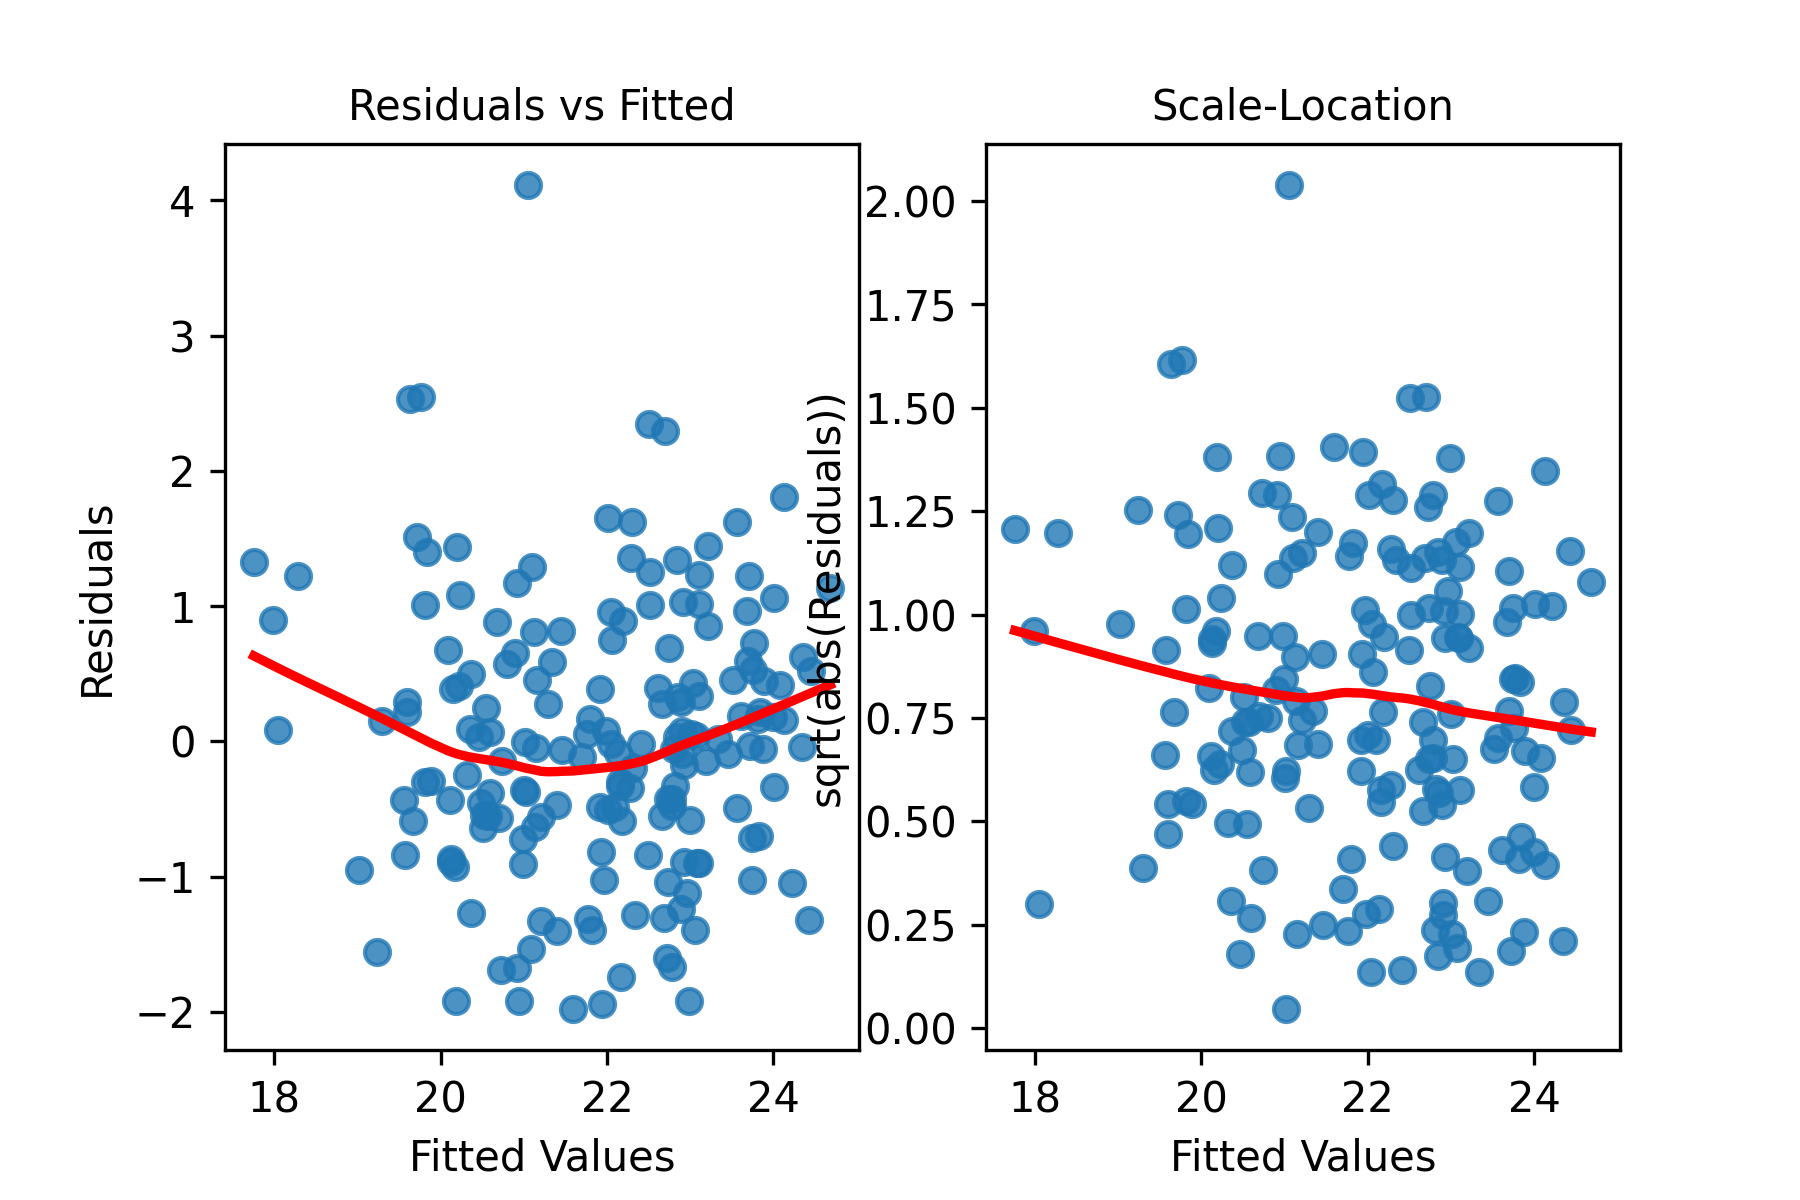
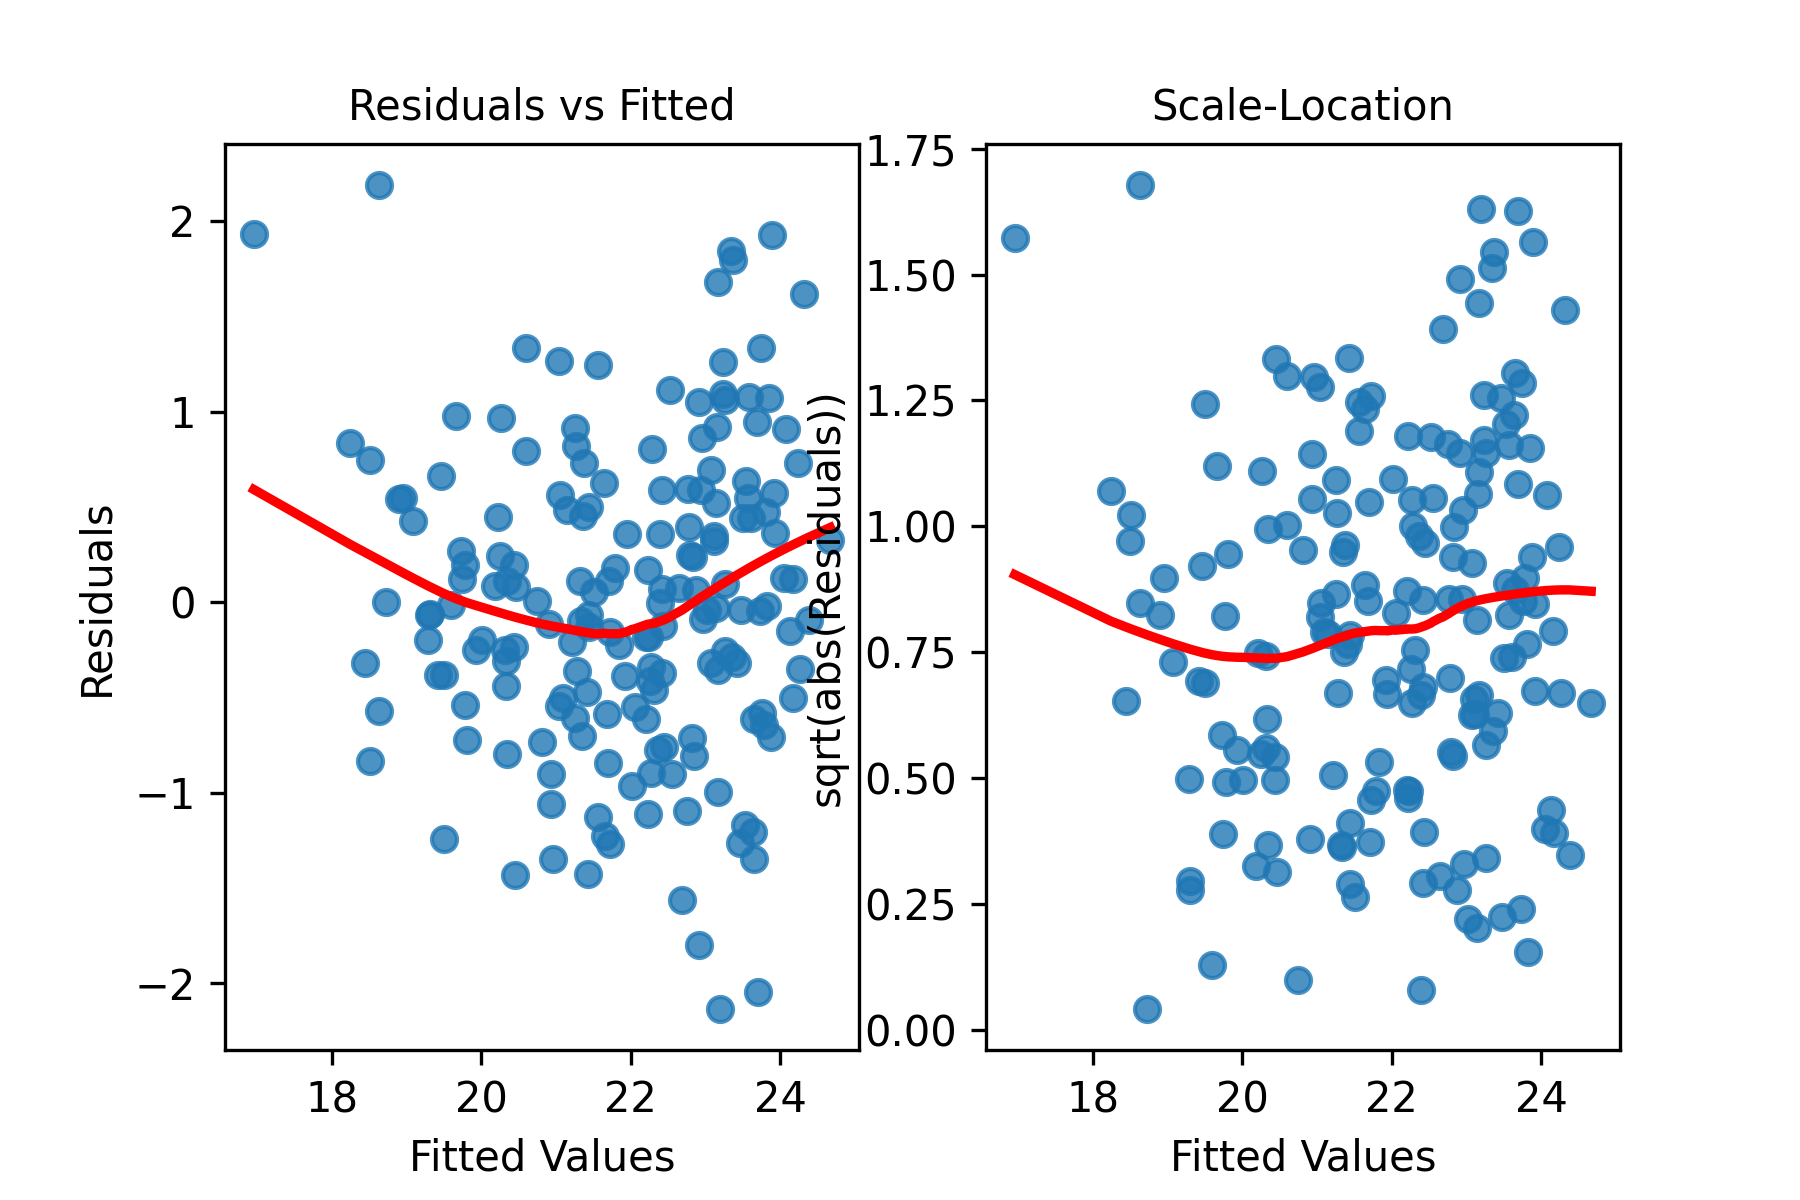
final model+stats

diff --git a/DASC512/final.py b/DASC512/final.py
@@ -14,7 +14,6 @@ from sklearn.feature_selection import VarianceThreshold
 from sklearn.preprocessing import StandardScaler
 from sklearn.ensemble import  RandomForestRegressor
 from sklearn.pipeline import Pipeline
-from sklearn.metrics import roc_auc_score,balanced_accuracy_score
 from scipy.special import inv_boxcox
 from sklearn.preprocessing import PowerTransformer
 from statsmodels.stats.outliers_influence import variance_inflation_factor
@@ -24,7 +23,8 @@ from pandas.core.common import SettingWithCopyWarning
 import warnings
 
 warnings.simplefilter(action="ignore", category=SettingWithCopyWarning)
-
+warnings.filterwarnings("ignore")
+    
 def get_model_stats(x, y):
     # x = trng_data[x_columns]
     results = sm.OLS(y, x).fit()
@@ -163,47 +163,6 @@ trng_data = pd.DataFrame(data.loc[:456, ~data.columns.isin(['Census Tract'])])
 # print(trng_data)
 # subset_data.info()
 
-# separate the independent and target variable 
-X = trng_data.drop(columns=['Y'])
-y = trng_data['Y']
-X=sm.add_constant(X)
-
-# # create the training data
-# x_columns = ['X1','X2','X3','X4','X5','X6','X7','X8','X9','X10','X11','X12','X1_X5','X4_X5','X5_X6','X5_X8']
-# x = trng_data[x_columns]
-# y_column = ['Y']
-# y = trng_data[y_column]
-
-# # remove features w/ variance < 30% => features which mostly remain at the same level 
-# # across different observations, should not ideally be responsible for differing responses in the observations.   
-# var = VarianceThreshold(threshold=0.3)
-# var = var.fit(x,y)
-# cols = var.get_support(indices=True)
-# features = x.columns[cols]
-# # print(features)
-# train_X = trng_data[features] 
-# # print(train_X)
-
-# # re-assign our df w/ only the features w/ variance > 30% + our target variable
-# trng_data = train_X.assign(Y=train_Y) 
-# print(trng_data)
-
-# # Remove features which are not correlated with the response variable 
-# # plt.figure(figsize=(12,12))
-# cor = trng_data.corr()
-# # sns.heatmap(cor, annot=True, cmap=plt.cm.Reds)
-# # plt.show()
-
-# # Consider correlations only with the target variable
-# cor_target = abs(cor['Y'])
-
-# #Select correlations with a correlation above a threshold 10%.
-# features = cor_target[cor_target>0.1]
-# # print(features.index)
-# # => Index(['X1', 'X2', 'X3', 'X5', 'X6', 'X7', 'X9', 'X10', 'X11', 'X12', 'X1_X5','X4_X5', 'X5_X8']
-
-# x_columns = ['X1', 'X2', 'X3', 'X5', 'X6', 'X7', 'X9', 'X10', 'X11', 'X12', 'X1_X5','X4_X5', 'X5_X8']
-
 # Drop outliers
 Q1 = trng_data.quantile(0.25)
 Q3 = trng_data.quantile(0.75)
@@ -212,6 +171,18 @@ index = trng_data[~((trng_data < (Q1 - 1.5 * IQR)) | (trng_data > (Q3 + 1.5 * IQ
 trng_data.drop(index, inplace=True)
 # trng_data.describe()
 # trng_data.info()
+
+# separate the independent and target variable 
+X = trng_data.drop(columns=['Y'])
+y = trng_data['Y']
+X=sm.add_constant(X)
+print(X.columns)
+
+# create the training data
+x_columns = ['const', 'X1','X2','X3','X4','X5','X6','X7','X8','X9','X10','X11','X12','X1_X5','X4_X5','X5_X6','X5_X8']
+# x = trng_data[x_columns]
+y_column = ['Y']
+# y = trng_data[y_column]
 
 ###  Build Every Possible Model
 from itertools import chain, combinations
@@ -242,14 +213,11 @@ mylist = [list(row) for row in mylist]
 # print(mylist[105703]) => ['X1', 'X4', 'X5', 'X6', 'X8', 'X9', 'X10', 'X11', 'X12', 'X5_X6']
 # print(mylist[125995]) => ['const', 'X4', 'X5', 'X6', 'X8', 'X9', 'X10', 'X11', 'X12', 'X1_X5', 'X4_X5', 'X5_X6']
 
-from sklearn.feature_selection import SelectKBest
-from sklearn.feature_selection import f_regression
-
 ###  Recursive Feature Elimination
 from sklearn.feature_selection import RFE
 from sklearn.ensemble import AdaBoostRegressor
-estimator = AdaBoostRegressor(random_state=0, n_estimators=100)
-selector = RFE(estimator, n_features_to_select=8, step=1)
+estimator = AdaBoostRegressor(random_state=42, n_estimators=100)
+selector = RFE(estimator, n_features_to_select=5, step=1)
 selector = selector.fit(X, y)
 filter = selector.support_
 print("Num Features: %d" % selector.n_features_)
@@ -262,32 +230,54 @@ print(features)
 print("Selected features:")
 print(features[filter]) 
 # => 'X6', 'X8', 'X10', 'X11', 'X12', 'X1_X5', 'X5_X6', 'X5_X8'
-x_columns = ['X5', 'X6', 'X11', 'X1_X5', 'X5_X8']
+# x_columns = ['X5', 'X6', 'X11', 'X1_X5', 'X5_X8']
 
-# VIF dataframe
-vif_data = compute_vif(x_columns)
-print(vif_data)
 
 # step-wise regression by P>|t|
-# x_columns.remove('X4') #0.9583
-# x_columns.remove('X5_X6') #0.6188
-# x_columns.remove('X6') #0.7102
-# x_columns.remove('X10') #0.3972
-# x_columns.remove('X11') #0.4553
-# x_columns.remove('X12') #0.4093
+from mlxtend.feature_selection import SequentialFeatureSelector as sfs
+from mlxtend.plotting import plot_sequential_feature_selection as plot_sfs
+lr = LinearRegression()
 
+# Build step forward feature selection
+sfs1 = sfs(lr, 
+          k_features=7, 
+          forward=True, 
+          floating=False, 
+          scoring='neg_mean_squared_error',
+          fixed_features=(13, 14, 15, 16), # Final rqmmts 'X1_X5','X4_X5','X5_X6','X5_X8' 
+          cv=10)
 
-X = trng_data[x_columns]
+# Perform SFFS
+feature_names = tuple(x_columns)
+sfs1 = sfs1.fit(X, y, custom_feature_names=feature_names)
+fig = plot_sfs(sfs1.get_metric_dict(), kind='std_err')
+
+plt.title('Sequential Forward Selection (w. StdErr)')
+plt.grid()
+plt.show()
+print(sfs1.k_feature_names_)
+print(sfs1.k_score_)
+
+impt_features = list(sfs1.k_feature_names_)
+
+X = trng_data[impt_features]
+# VIF dataframe
+# x_columns.remove('X1') #503.224622
+# x_columns.remove('X3') #11.805574
+vif_data = compute_vif(impt_features)
+
+# remove X1 due to high multicolinearity w/ X1_X5
+impt_features.remove('X1')#423.472807 
+vif_data = compute_vif(impt_features)
+print(vif_data)
+
+X = trng_data[impt_features]
+
 # fig = sns.pairplot(X)
 # fig.savefig('finalPairPlot_x.png', dpi=300)
 
-# fix skew
-# pt = PowerTransformer()
-# pt.fit(X)
-# X = pd.DataFrame(pt.transform(X), columns=x_columns)
-
 # fig = sns.pairplot(X) #BINGO!!
-# fig.savefig('finalPairPlot_x.png', dpi=300)
+# fig.savefig('finalPairPlot_x_pt.png', dpi=300)
 
 trng_data = X.assign(Y=y) 
 # Transform our non-normal data
@@ -295,35 +285,43 @@ trng_data = X.assign(Y=y)
 trng_data['tY'], boxlambda = stats.boxcox(trng_data['Y'])
 # print(trng_data['tY'])
 # ty = pd.DataFrame(trng_data['tY'])
-# fig = sns.pairplot(ty)
 
+# X12', 'X1_X5', 'X4_X5', 'X5_X6' skewed
 trng_data['log_Y'] = np.log(trng_data['Y'])
 trng_data['inv_Y'] = 1/trng_data['Y']
 trng_data['Y_sqrd'] = trng_data['Y']**2
 Y_mean = np.mean(trng_data['Y'])
 trng_data['center_Y'] = trng_data['Y'] - Y_mean
-trng_data['log_X5'] = np.log(trng_data['X5'])
-trng_data['inv_X5'] = 1/trng_data['X5']
-X5_mean = np.mean(trng_data['X5'])
-trng_data['center_X5'] = trng_data['X5'] - X5_mean
-trng_data['log_X11'] = np.log(trng_data['X11'])
-trng_data['inv_X11'] = 1/trng_data['X11']
-X11_mean = np.mean(trng_data['X11'])
-trng_data['center_X11'] = trng_data['X11'] - X11_mean
+
+trng_data['log_X12'] = np.log(trng_data['X12'])
+trng_data['inv_X12'] = 1/trng_data['X12']
+X12_mean = np.mean(trng_data['X12'])
+trng_data['center_X12'] = trng_data['X12'] - X12_mean
+
 trng_data['log_X1_X5'] = np.log(trng_data['X1_X5'])
 trng_data['inv_X1_X5'] = 1/trng_data['X1_X5']
-X1X5_mean = np.mean(trng_data['X1_X5'])
-trng_data['center_X1_X5'] = trng_data['X1_X5'] - X1X5_mean
+X1_X5_mean = np.mean(trng_data['X1_X5'])
+trng_data['center_X1_X5'] = trng_data['X1_X5'] - X1_X5_mean
 
-y, X = dmatrices('tY ~ X5+X6+X11+X1_X5+X5_X8', data = trng_data, return_type ='dataframe')
-train_x, test_x, train_y, test_y = train_test_split(X, y, test_size = 50, random_state = 42)
+trng_data['log_X4_X5'] = np.log(trng_data['X4_X5'])
+trng_data['inv_X4_X5'] = 1/trng_data['X4_X5']
+X4_X5_mean = np.mean(trng_data['X4_X5'])
+trng_data['center_X4_X5'] = trng_data['X4_X5'] - X4_X5_mean
+
+trng_data['log_X5_X6'] = np.log(trng_data['X5_X6'])
+trng_data['inv_X5_X6'] = 1/trng_data['X5_X6']
+X5_X6_mean = np.mean(trng_data['X5_X6'])
+trng_data['center_X5_X6'] = trng_data['X5_X6'] - X5_X6_mean
+
+y, X = dmatrices('tY ~ X6+X12+X1_X5+X4_X5+X5_X6+X5_X8', data = trng_data, return_type ='dataframe')
+train_x, test_x, train_y, test_y = train_test_split(X, y, test_size = 0.25, random_state = 42)
 lin_reg = sm.OLS(y,X).fit()
 
 linearity_test(lin_reg, y)
 homoscedasticity_test(lin_reg)
 normality_of_residuals_test(lin_reg)
 
-acf = smt.graphics.plot_acf(lin_reg.resid, lags=40 , alpha=0.05)
+acf = smt.graphics.plot_acf(lin_reg.resid, lags=25 , alpha=0.05)
 acf.savefig('finalACF.png', dpi=300)
 
 #Durbin Watson Test, the test statistic is between 0 and 4, <2 is positive correlation, >2 is negative correlation
@@ -340,15 +338,16 @@ for column in X.columns:
 # print(lin_reg.params)
 A = round(lin_reg.params['Intercept'], 4)
 # print(A)
-X5 = round(lin_reg.params['X5'], 4)
 X6 = round(lin_reg.params['X6'], 4)
-X11 = round(lin_reg.params['X11'], 4)
+X12 = round(lin_reg.params['X12'], 4)
 X1_X5 = round(lin_reg.params['X1_X5'], 4)
+X4_X5 = round(lin_reg.params['X4_X5'], 4)
+X5_X6 = round(lin_reg.params['X5_X6'], 4)
 X5_X8 = round(lin_reg.params['X5_X8'], 4)
 
-median_value = A + X5 + X6 + X11 + X1_X5 + X5_X8
-print('median_value = ' + str(A) + ' + ' + str(X5) + ' + ' + str(X6) + 
-    ' + ' + str(X11) + ' + ' + str(X1_X5) + ' + ' + str(X5_X8))
+median_value = A + X6 + X12 + X1_X5 + X4_X5 + X5_X6 + X5_X8
+print('median_value = ' + str(A) + ' + ' + str(X6) + ' + ' + str(X12) + 
+    ' + ' + str(X1_X5) + ' + ' + str(X4_X5) + ' + ' + str(X5_X6) + ' + '+ str(X5_X8))
 
 # Plot our model using Test Data to determine our y_pred
 fig, ax = plt.subplots(figsize=(10,6))
@@ -357,16 +356,12 @@ fig.tight_layout(pad=3)
 plt.xlabel('Median Value (Test)', fontsize=10)
 plt.ylabel('Median Value (Predict)', fontsize=10)
 # subset our test data to align with our model
-test_data = data.loc[456:, data.columns.isin(['Y', 'X5', 'X6', 'X11', 'X1_X5', 'X5_X8'])]
+test_data = data.loc[456:, data.columns.isin(['Y', 'X6', 'X12', 'X1_X5', 'X4_X5', 'X5_X6', 'X5_X8'])]
 # print(test_data)
 X = test_data.loc[:, test_data.columns != 'Y']
 y = test_data.loc[:, test_data.columns == 'Y']
 X=sm.add_constant(X)
 
-# X_train, X_test, y_train, y_test = train_test_split(X, y,
-#                                         test_size=50, random_state=42)
-
-# test_model = sm.OLS(y,X).fit()
 y_pred = lin_reg.predict(X)
 # print(y_pred)
 y_pred_df = pd.DataFrame(y_pred)
